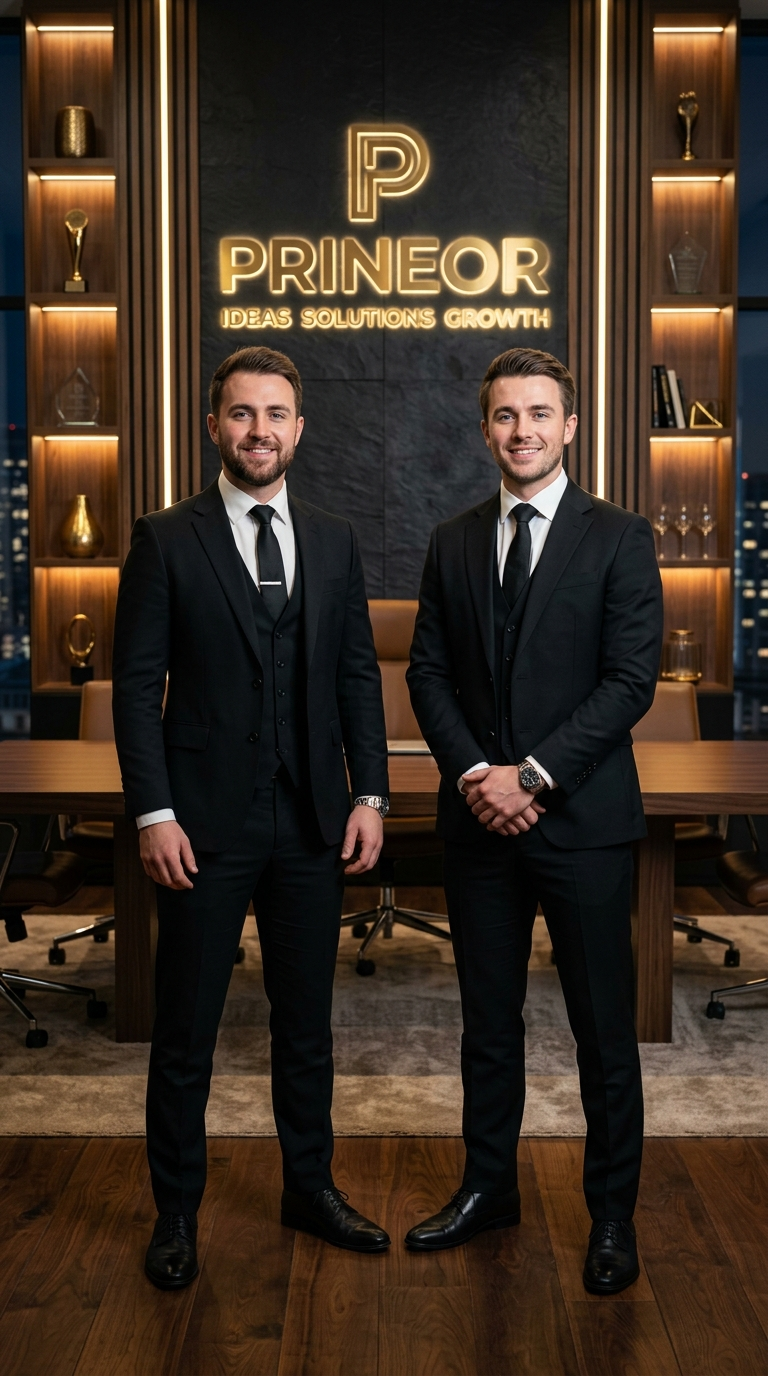
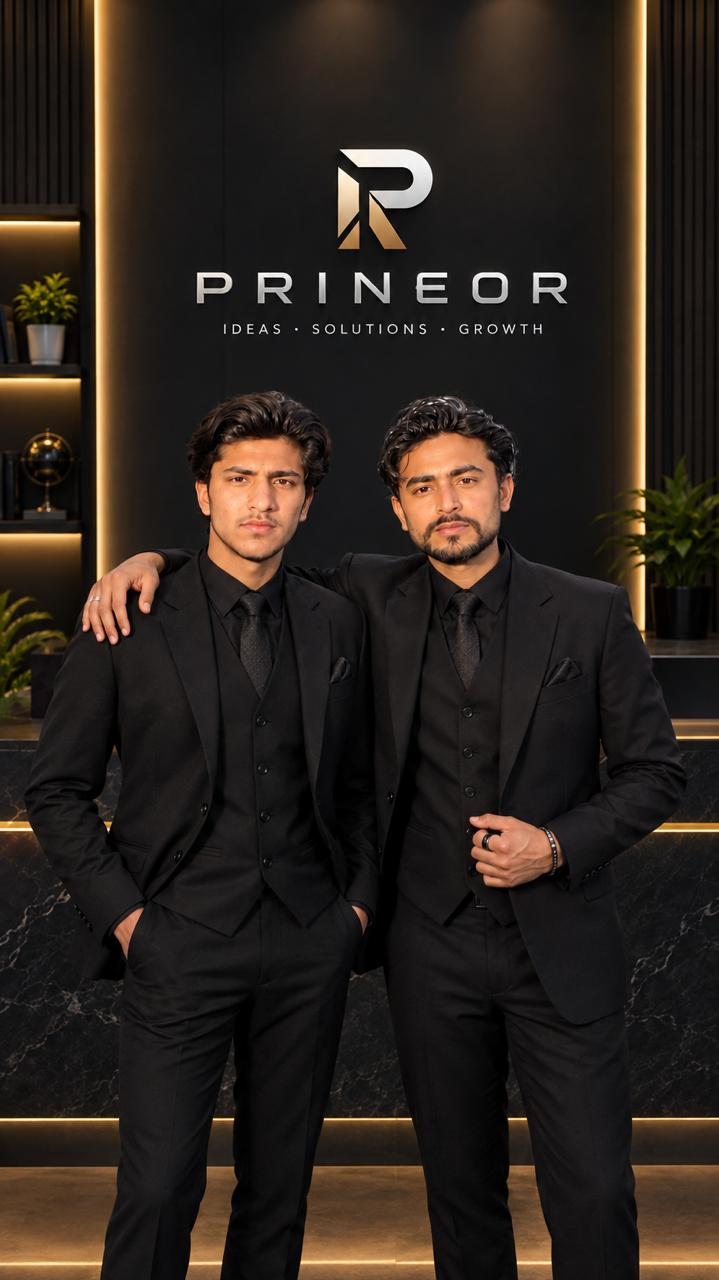
feat: implement robust founder portrait serving
Add middleware to force-serve the official founder portrait for all hero image requests and update CMS logic to invalidate stale or legacy image references.

diff --git a/src/context/CMSContext.tsx b/src/context/CMSContext.tsx
@@ -36,8 +36,19 @@ import {
   ASSETS 
 } from '../data/portfolioData';
 
-const STORAGE_KEY = 'prineor_cms_master_data_v1';
+const STORAGE_KEY = 'prineor_cms_master_data_v2';
 const JWT_KEY = 'prineor_admin_jwt';
+
+const isStaleOrInvalidImage = (url?: string) => {
+  if (!url) return true;
+  return (
+    url.includes('HmOcyRT0') || 
+    url.includes('1787639780033') || 
+    url.includes('prineor_founders_hero_1789986383215') || 
+    url.includes('unsplash') || 
+    url.includes('photo-1534528741775')
+  );
+};
 
 export const initialHeroConfig: HeroConfig = {
   badgeText: 'STARTED IN 2026 • BUILDING & GROWING',
@@ -302,14 +313,14 @@ export const CMSProvider: React.FC<{ children: React.ReactNode }> = ({ children 
           hero: { 
             ...defaultCMSData.hero, 
             ...(parsed.hero || {}),
-            heroImage: (parsed.hero?.heroImage && !parsed.hero.heroImage.includes('unsplash') && !parsed.hero.heroImage.includes('photo-1534528741775'))
+            heroImage: (parsed.hero?.heroImage && !isStaleOrInvalidImage(parsed.hero.heroImage))
               ? parsed.hero.heroImage
               : defaultCMSData.hero.heroImage
           },
           brand: { 
             ...defaultCMSData.brand, 
             ...(parsed.brand || {}),
-            portraitImage: (parsed.brand?.portraitImage && !parsed.brand.portraitImage.includes('unsplash') && !parsed.brand.portraitImage.includes('photo-1534528741775'))
+            portraitImage: (parsed.brand?.portraitImage && !isStaleOrInvalidImage(parsed.brand.portraitImage))
               ? parsed.brand.portraitImage
               : defaultCMSData.brand.portraitImage
           },

diff --git a/server.ts b/server.ts
@@ -1459,6 +1459,25 @@ async function start() {
   const cwdDist = path.join(process.cwd(), 'dist');
   const distPath = cwdDist;
 
+  // Guaranteed Founder Portrait Serving: Always serve exact founders photo for any hero portrait URL
+  const handleFounderPhoto = (_req: Request, res: Response) => {
+    const heroPath = path.join(process.cwd(), 'public', 'hero_founders.jpg');
+    if (fs.existsSync(heroPath)) {
+      res.setHeader('Content-Type', 'image/jpeg');
+      res.setHeader('Cache-Control', 'public, max-age=3600, must-revalidate');
+      return res.sendFile(heroPath);
+    }
+    return res.status(404).send('Not found');
+  };
+
+  app.get('/hero_founders.jpg', handleFounderPhoto);
+  app.get('/hero_founders.webp', handleFounderPhoto);
+  app.get('/hero_crystal_portrait.webp', handleFounderPhoto);
+  app.get('/images/hero_founders.jpg', handleFounderPhoto);
+  app.get('/images/hero_founders.webp', handleFounderPhoto);
+  app.get('/images/hero_crystal_portrait.webp', handleFounderPhoto);
+  app.get('/assets/hero_crystal_portrait:slug(*)', handleFounderPhoto);
+
   // Serve public static assets (images, favicon, etc.)
   app.use(express.static(path.join(process.cwd(), 'public')));
   app.use('/images', express.static(path.join(process.cwd(), 'public/images')));
